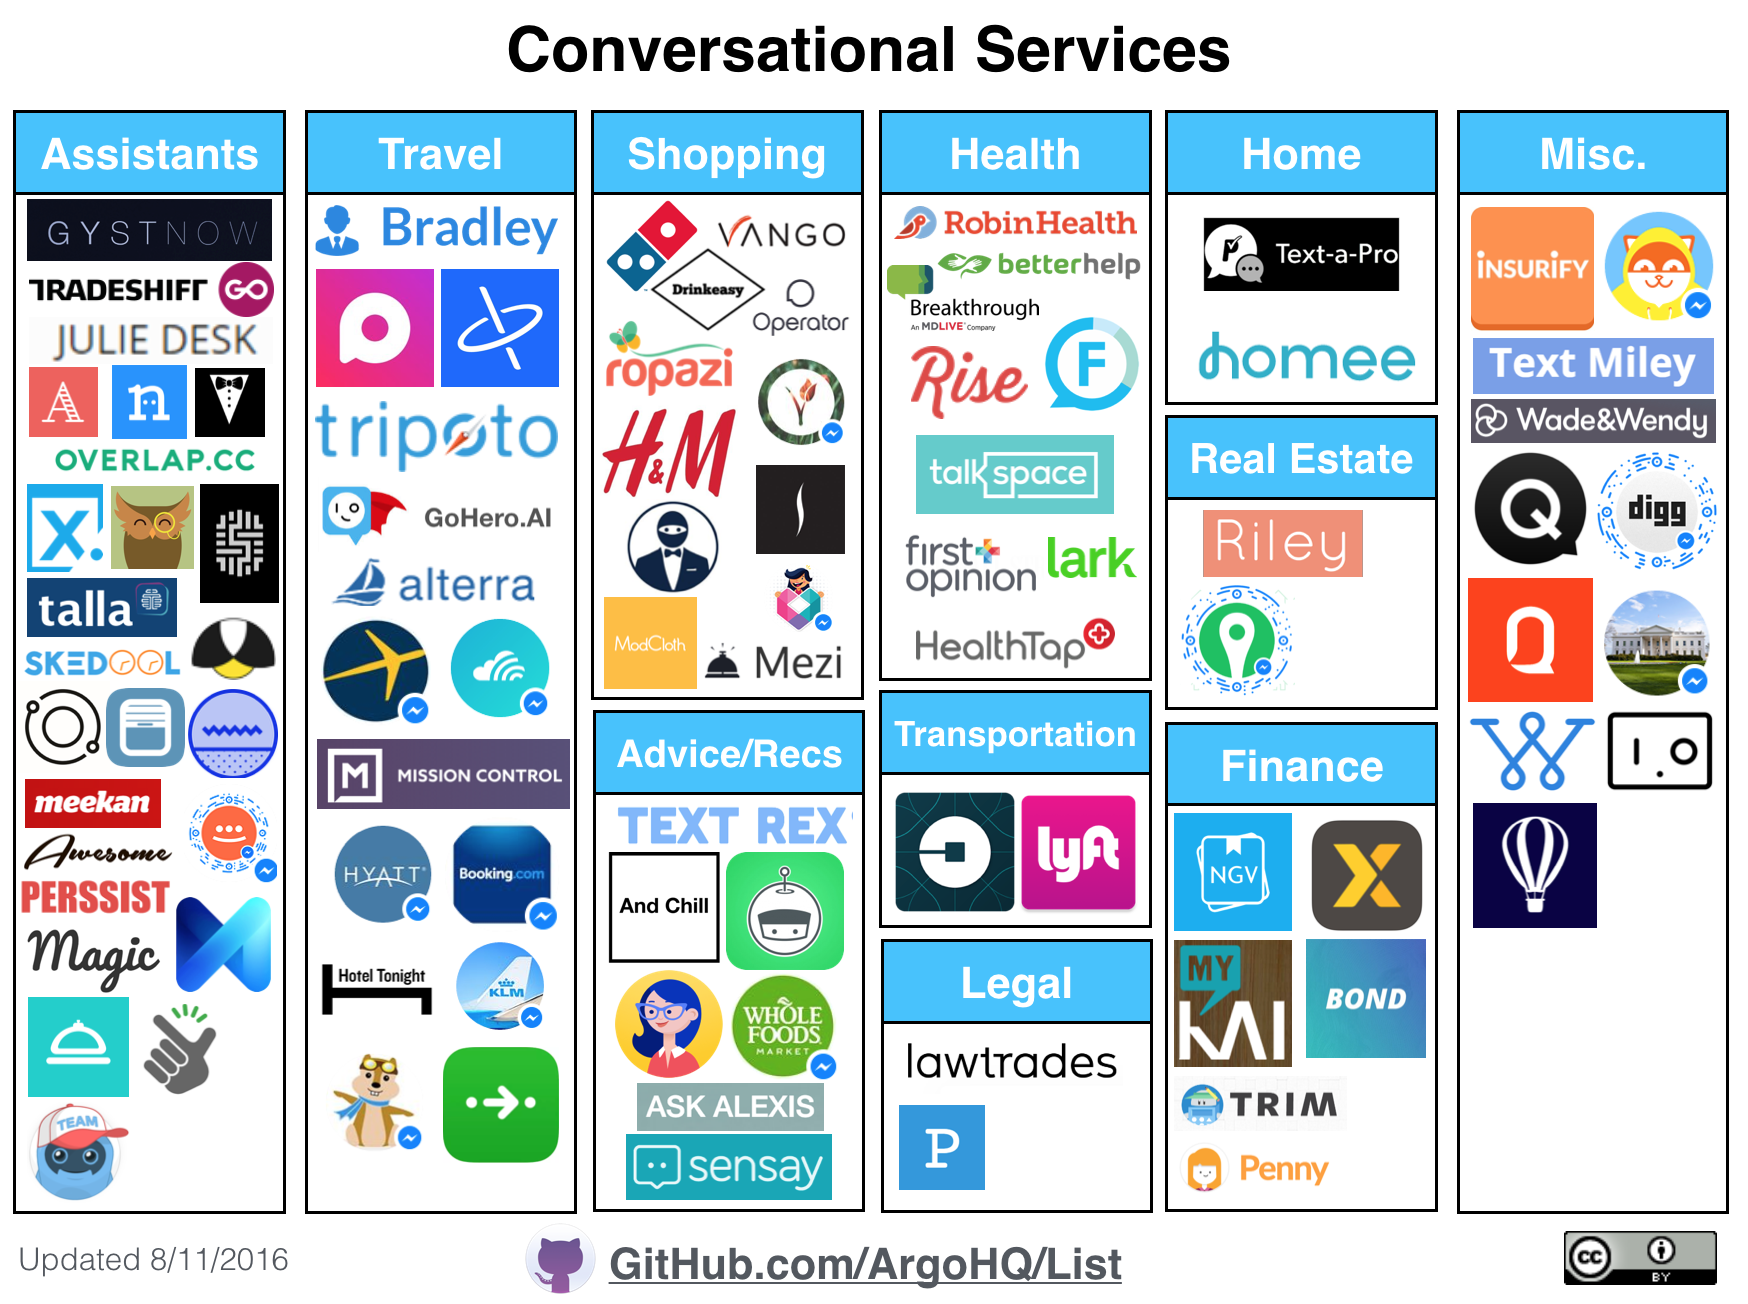
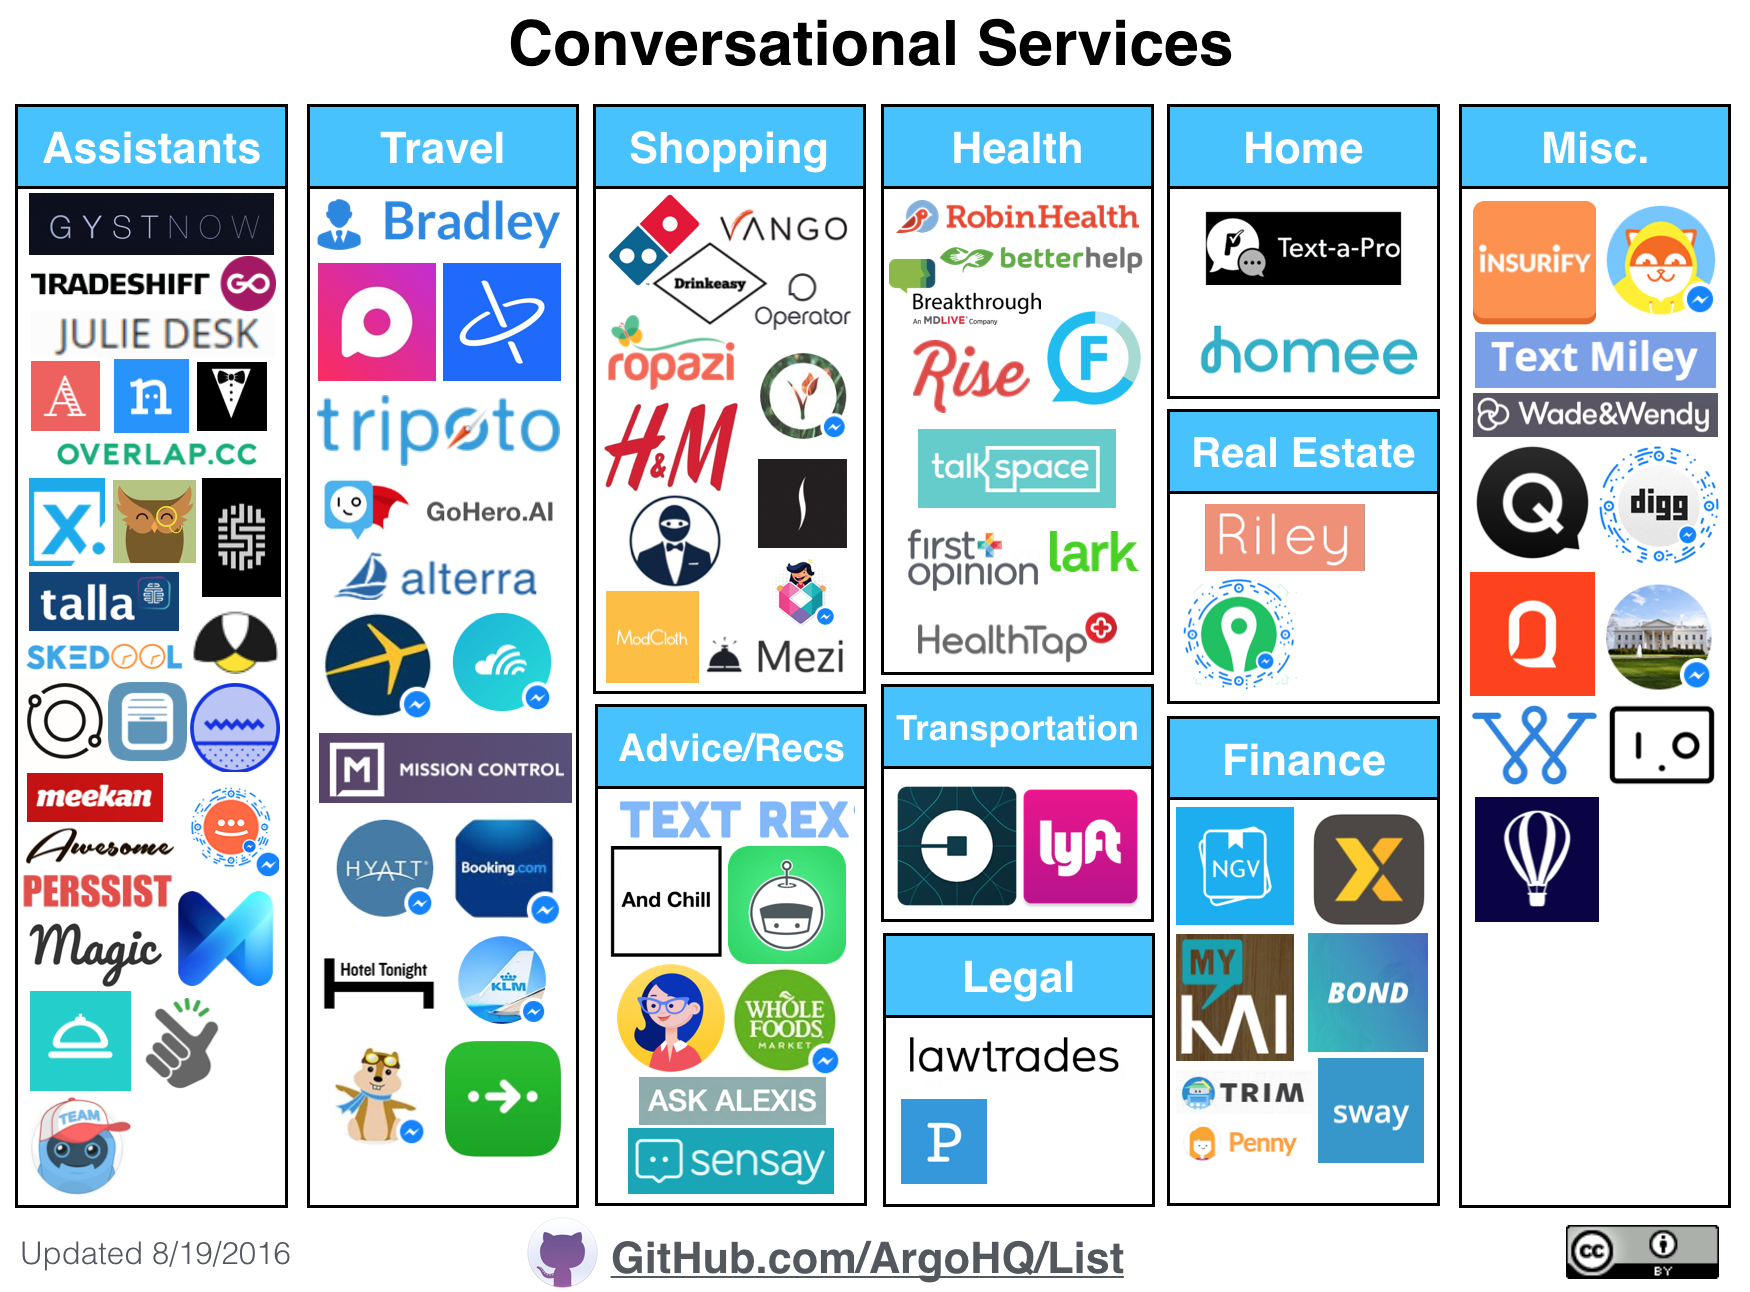
Added Sway

diff --git a/README.md b/README.md
@@ -56,6 +56,7 @@ Please submit a pull request if you are able to contribute!
 * [Penny](https://www.pennyapp.io/) - Personal finance coach
 * [TaxChat](http://tax.chat/) - Tax prep via message
 * [Trim](http://www.asktrim.com/) - Find and cut subscriptions via message
+* [Sway](http://swayfinance.com/) - SaaS accounting with an accompanying Slackbot
 
 ## Health
 

diff --git a/notes.md b/notes.md
@@ -1,1 +1,1 @@
-Infographic updated as of 8/11/2016
+Infographic updated as of 8/19/2016
